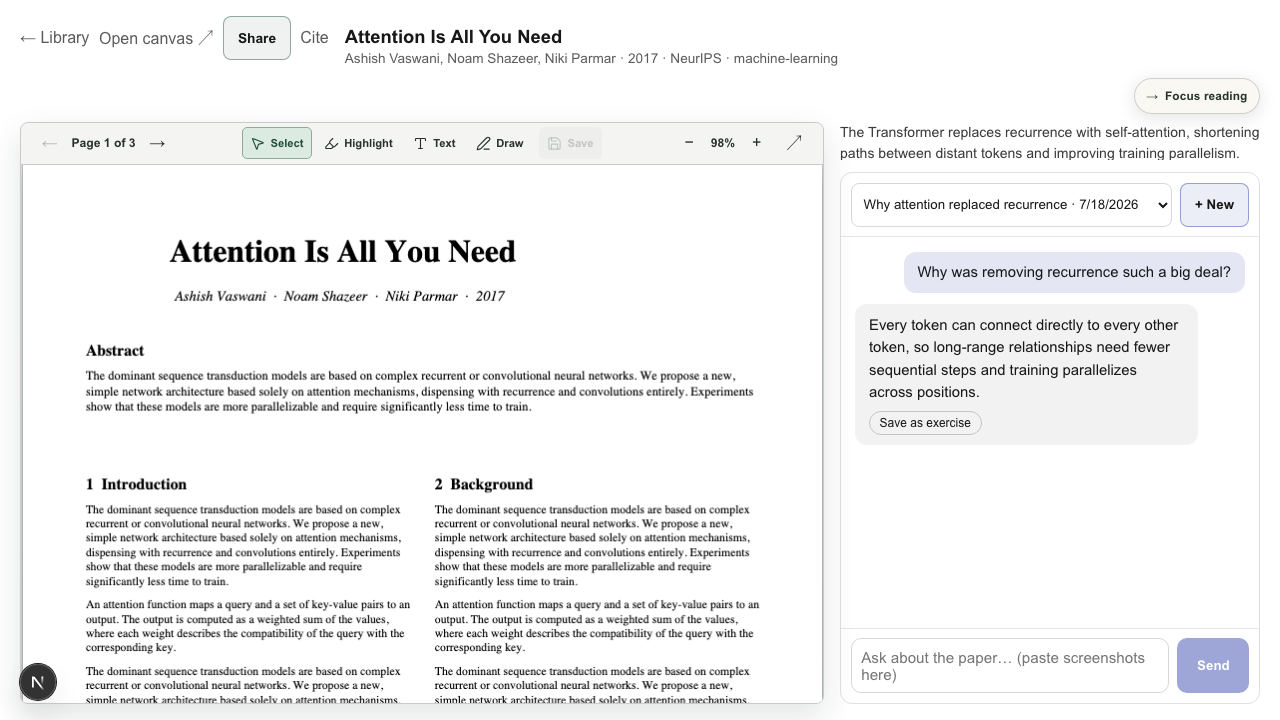
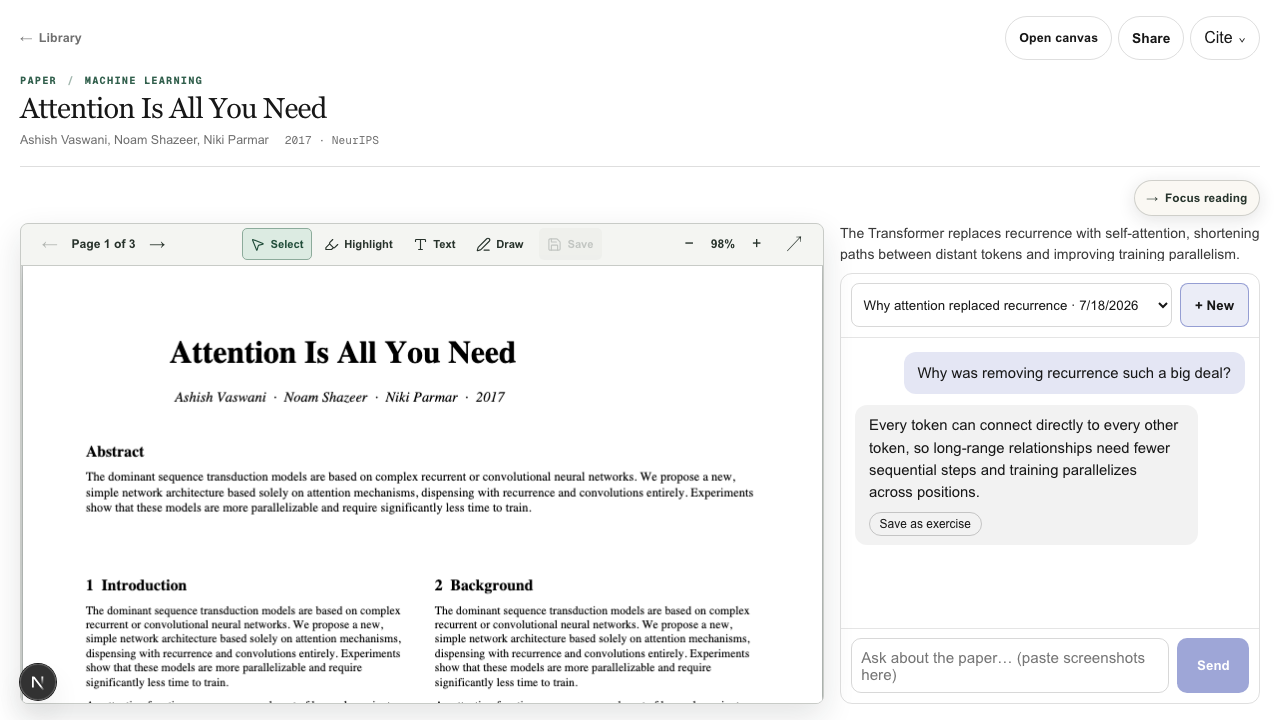
reader: clarify paper header hierarchy
Problem: Paper navigation, actions, title, and metadata competed in one compressed row and citation controls could overflow at the viewport edge.

Approach: Separate the utility and identity layers, introduce responsive editorial typography, normalize action focus and hover states, and align the citation disclosure inward.

Result: Long paper titles remain readable, actions retain accessible targets across breakpoints, and the visual documentation reflects the revised reader.

diff --git a/src/app/paper/[topic]/[slug]/paper.module.css b/src/app/paper/[topic]/[slug]/paper.module.css
@@ -1,45 +1,143 @@
 .root {
+  --paper-accent: #315f4c;
+  --paper-line: rgba(23, 23, 23, 0.14);
+  --paper-muted: rgba(23, 23, 23, 0.62);
+  --paper-surface: rgba(49, 95, 76, 0.07);
   display: flex;
   flex-direction: column;
   height: 100vh;
   padding: 1rem 1.25rem;
   box-sizing: border-box;
-  gap: 0.75rem;
+  gap: 0.8rem;
 }
 
 .header {
+  display: grid;
+  gap: 0.9rem;
+  padding-bottom: 1rem;
+  border-bottom: 1px solid var(--paper-line);
+}
+
+.utilityRow {
   display: flex;
-  align-items: baseline;
-  gap: 1rem;
+  align-items: center;
+  justify-content: space-between;
+  gap: 1.5rem;
 }
 
 .actions {
   display: flex;
   align-items: center;
-  gap: 0.6rem;
+  justify-content: flex-end;
+  gap: 0.35rem;
   white-space: nowrap;
 }
 
-.back {
+.back,
+.actionLink {
   text-decoration: none;
-  color: inherit;
-  opacity: 0.7;
   white-space: nowrap;
   min-height: 44px;
   display: inline-flex;
   align-items: center;
+  gap: 0.38rem;
+  border-radius: 999px;
+  font-size: 0.78rem;
+  font-weight: 680;
+  letter-spacing: 0.01em;
+}
+
+.back {
+  color: var(--paper-muted);
+}
+
+.back:hover {
+  color: inherit;
+}
+
+.actionLink,
+.actions > button,
+.actions summary {
+  min-height: 44px;
+  padding: 0 0.82rem;
+  border: 1px solid var(--paper-line);
+  border-radius: 999px;
+  color: inherit;
+  background: transparent;
+  opacity: 1;
+  transition:
+    border-color 140ms ease,
+    background 140ms ease,
+    color 140ms ease;
+}
+
+.actionLink:hover,
+.actions > button:hover,
+.actions summary:hover {
+  border-color: color-mix(in srgb, var(--paper-accent) 58%, transparent);
+  background: var(--paper-surface);
+}
+
+.back:focus-visible,
+.actionLink:focus-visible,
+.actions > button:focus-visible,
+.actions summary:focus-visible {
+  outline: 2px solid var(--paper-accent);
+  outline-offset: 2px;
+}
+
+.identity {
+  max-width: min(1040px, 88vw);
+}
+
+.eyebrow {
+  margin: 0 0 0.38rem;
+  color: var(--paper-accent);
+  font-family: var(--font-geist-mono), monospace;
+  font-size: 0.65rem;
+  font-weight: 750;
+  letter-spacing: 0.11em;
+  text-transform: uppercase;
+}
+
+.eyebrow span {
+  padding: 0 0.18rem;
+  opacity: 0.45;
 }
 
 .title {
   margin: 0;
-  font-size: 1.15rem;
-  line-height: 1.3;
+  font-family: Georgia, "Times New Roman", serif;
+  font-size: clamp(1.45rem, 2.25vw, 2.15rem);
+  font-weight: 400;
+  letter-spacing: -0.025em;
+  line-height: 1.08;
+  text-wrap: balance;
 }
 
 .meta {
-  margin: 0.15rem 0 0;
-  font-size: 0.85rem;
-  opacity: 0.7;
+  display: flex;
+  align-items: baseline;
+  gap: 0.45rem 1rem;
+  margin-top: 0.48rem;
+  color: var(--paper-muted);
+  font-size: 0.78rem;
+  line-height: 1.4;
+}
+
+.authors,
+.publication {
+  margin: 0;
+}
+
+.authors {
+  max-width: 76ch;
+}
+
+.publication {
+  flex: none;
+  font-family: var(--font-geist-mono), monospace;
+  font-size: 0.7rem;
 }
 
 .chat {
@@ -62,12 +160,59 @@
 @media (max-width: 900px) {
   .root {
     height: auto;
+    padding: 0.75rem;
   }
+
+  .utilityRow {
+    align-items: flex-start;
+  }
+
+  .actions {
+    flex-wrap: wrap;
+  }
+
+  .identity {
+    max-width: 100%;
+  }
+}
+
+@media (max-width: 620px) {
   .header {
+    gap: 0.7rem;
+    padding-bottom: 0.8rem;
+  }
+
+  .utilityRow {
+    display: grid;
+    gap: 0.35rem;
+  }
+
+  .actions {
+    justify-content: flex-start;
+    margin-left: -0.35rem;
+  }
+
+  .actionLink,
+  .actions > button,
+  .actions summary {
+    padding-inline: 0.7rem;
+  }
+
+  .title {
+    font-size: clamp(1.35rem, 7vw, 1.8rem);
+  }
+
+  .meta {
     align-items: flex-start;
     flex-direction: column;
   }
-  .actions {
-    flex-wrap: wrap;
+}
+
+@media (prefers-color-scheme: dark) {
+  .root {
+    --paper-line: rgba(237, 237, 237, 0.17);
+    --paper-muted: rgba(237, 237, 237, 0.62);
+    --paper-surface: rgba(74, 143, 114, 0.12);
+    --paper-accent: #78ae95;
   }
 }

diff --git a/src/app/paper/[topic]/[slug]/page.tsx b/src/app/paper/[topic]/[slug]/page.tsx
@@ -26,23 +26,35 @@ export default async function PaperPage({ params }: PaperPageProps) {
   return (
     <main className={styles.root}>
       <header className={styles.header}>
-        <nav className={styles.actions} aria-label="Paper actions">
+        <div className={styles.utilityRow}>
           <Link href="/" className={styles.back}>
-            ← Library
+            <span aria-hidden="true">←</span>
+            Library
           </Link>
-          <Link href={`/paper/${topic}/${slug}/canvas`} className={styles.back}>
-            Open canvas ↗
-          </Link>
-          <ShareButton topic={topic} slug={slug} />
-          <CitationActions topic={topic} slug={slug} />
-        </nav>
-        <div>
-          <h1 className={styles.title}>{meta.title}</h1>
-          <p className={styles.meta}>
-            {meta.authors.join(", ")}
-            {meta.year ? ` · ${meta.year}` : ""}
-            {meta.venue ? ` · ${meta.venue}` : ""} · {topic}
+          <nav className={styles.actions} aria-label="Paper actions">
+            <Link
+              href={`/paper/${topic}/${slug}/canvas`}
+              className={styles.actionLink}
+            >
+              Open canvas
+            </Link>
+            <ShareButton topic={topic} slug={slug} />
+            <CitationActions topic={topic} slug={slug} />
+          </nav>
+        </div>
+        <div className={styles.identity}>
+          <p className={styles.eyebrow}>
+            Paper <span aria-hidden="true">/</span> {topic.replaceAll("-", " ")}
           </p>
+          <h1 className={styles.title}>{meta.title}</h1>
+          <div className={styles.meta}>
+            <p className={styles.authors}>{meta.authors.join(", ")}</p>
+            {(meta.year || meta.venue) && (
+              <p className={styles.publication}>
+                {[meta.year, meta.venue].filter(Boolean).join(" · ")}
+              </p>
+            )}
+          </div>
         </div>
       </header>
 

diff --git a/src/components/citations/CitationActions.module.css b/src/components/citations/CitationActions.module.css
@@ -12,9 +12,21 @@
   min-height: 44px;
   display: inline-flex;
   align-items: center;
+  gap: 0.35rem;
   cursor: pointer;
   opacity: 0.7;
   list-style: none;
+}
+
+.menu summary::after {
+  content: "⌄";
+  margin-top: -0.18rem;
+  font-size: 0.8rem;
+  transition: transform 140ms ease;
+}
+
+.menu[open] summary::after {
+  transform: rotate(180deg);
 }
 
 .menu summary::-webkit-details-marker {
@@ -25,7 +37,7 @@
   position: absolute;
   z-index: 40;
   top: calc(100% + 0.3rem);
-  left: 0;
+  right: 0;
   width: 150px;
   display: flex;
   flex-direction: column;
@@ -60,7 +72,7 @@
 .status {
   position: absolute;
   top: calc(100% + 0.35rem);
-  left: 0;
+  right: 0;
   z-index: 30;
   width: max-content;
   max-width: 260px;
